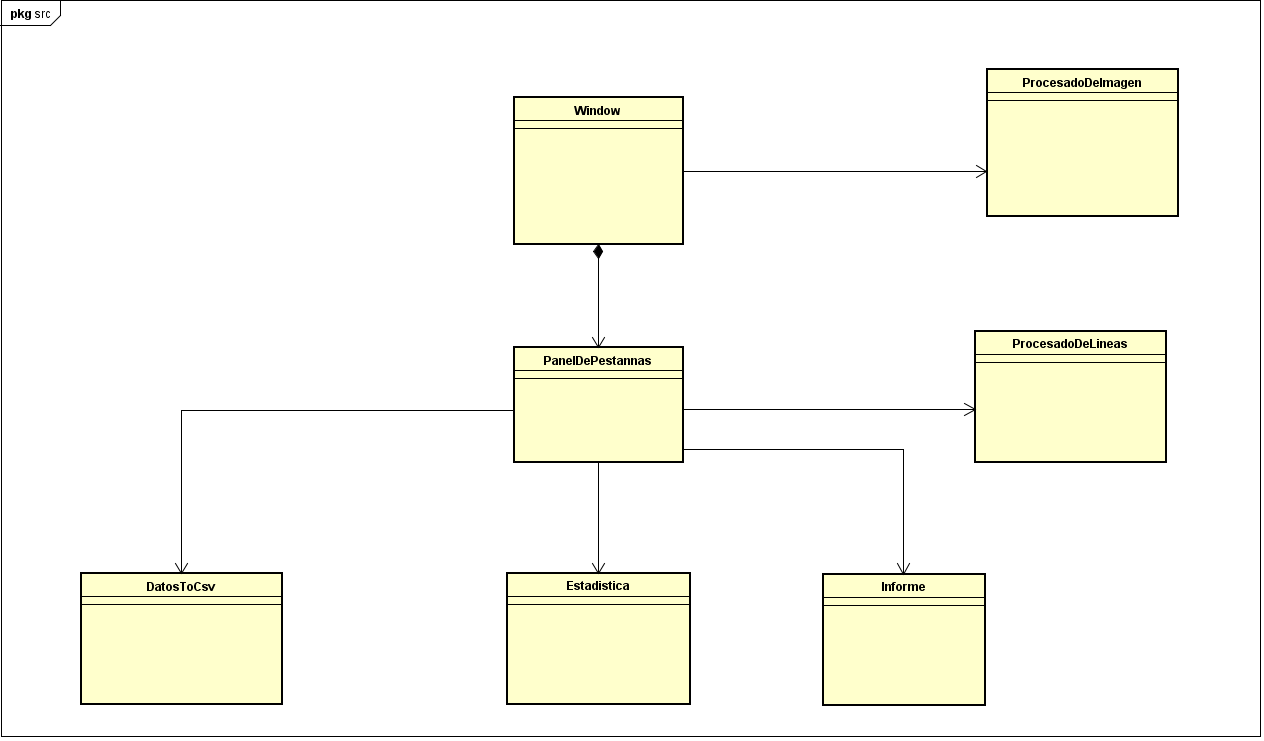
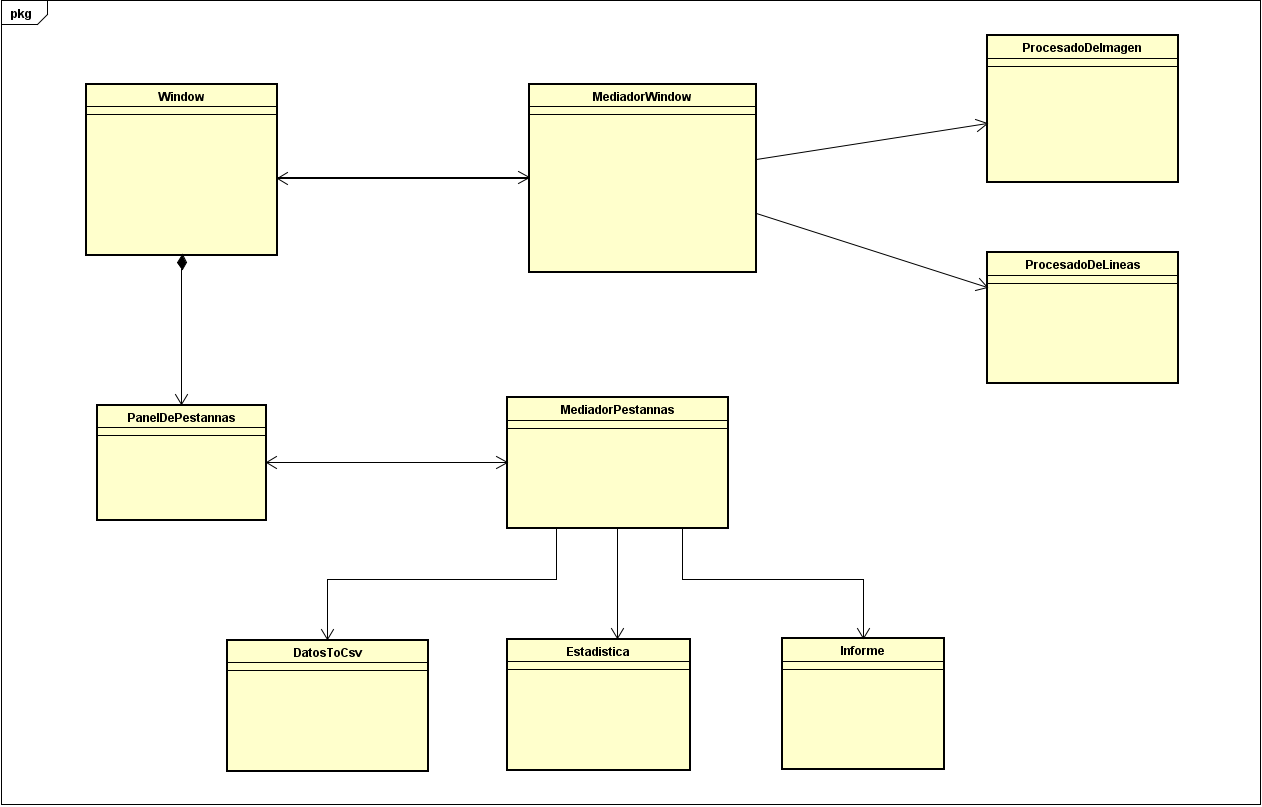
Semana 4: Documentación patrones diseño
Esta tarea se corresponde a la documentación de los patrones de diseño
que hemos aplicado al código y hemos tenido en cuanta aunque alguno ha
sido descartado por que en este lenguaje seria sobredimensionar el
código ya que no reduciría ni la claridad ni las lineas simplemente
añadiría complejidad.

diff --git a/Documentacion/tex/C_Diseno.tex b/Documentacion/tex/C_Diseno.tex
@@ -16,21 +16,26 @@ En este punto vamos a hacer el diseño inicial de las clases de la aplicación y
 En esta parte vamos a hacer una breve descripción del contenido de cada clase y su función.
 
 \begin{itemize}
-\item Window:
+	\item VentanaInicio: 
+Esta clase simplemente hará de fachada entre la ejecución y el acceso a la aplicación real cuando hayamos elegido una imagen que procesar
+	\item Window:
 Esta clase contendrá la ventana principal, menús, el panel de pestañas y la imagen sobre la que dibujar.
-\item PanelDePestannas:
+	\item PanelDePestannas:
 Esta clase contendrá la botonería y la interacción con la imagen a evaluar.
-\item ProcesadoDeImagen:
+	\item MediadorPestannas:
+Esta clase va a ser un mediador para las pestañas para deslocalizar código y complejidad.
+	\item MediadorVentana:
+En esta clase va ser un mediador entre la ventana principal y sus métodos para así reducir complejidad en la clase de ventana.
+	\item ProcesadoDeImagen:
 Esta clase contendrá el tratamiento que tiene que llevar la imagen para la extracción de características a evaluar.
-\item ProcesadoDeLineas:
+	\item ProcesadoDeLineas:
 Esta clase contendrá el procesado de las lineas obtenidas por el procesado de la imagen y el resultado final que obtendremos.
-\item Informe: 
+	\item Informe: 
 Esta clase contendrá la generación del informe (Tabla) de estadísticas en formato LaTex para poder exportar fácilmente a un documento PDF.
-\item DatosToCsv:
+	\item DatosToCsv:
 Esta clase contendrá el paso de los datos que contiene la tabla a un documento en formato csv del que desde Excel podemos extraer fácilmente los datos.
-\item Estadistica: 
-Esta clase contendrá el calculo de los datos estadísticos y la clasificación de las lineas según su orientación.
-
+	\item Estadistica: 
+Esta clase contendrá el cálculo de los datos estadísticos y la clasificación de las lineas según su orientación.
 \end{itemize}
 
 \subsection{Paquetes}
@@ -39,10 +44,14 @@ En este punto vamos a hacer una breve descripción de cada paquete y de su conte
 \begin{itemize}
 \item Gui:
 Este paquete contendrá todos los elementos gráficos de la aplicación y todos lo que se corresponde con interacción con el usuario.
-\item Código: Este paquete contendrá todas las clases de calculo que necesitara la aplicación:
+	\begin{itemize}
+	\item Mediadores:
+	Este paquete va a contener los mediadores de la interfaz para deslocalizar código y complejidad en esta.
+	\end{itemize}
+\item Código: Este paquete contendrá todas las clases de cálculo que necesitara la aplicación:
 	\begin{itemize}
 	\item Estadísticas:
-	Este paquete contendrá las clases del calculo de estadísticas.
+	Este paquete contendrá las clases del cálculo de estadísticas.
 	\item Informes:
 	Este paquete contendrá la generación del informe LaTex
 	\item Procesado:
@@ -59,9 +68,42 @@ Este paquete contendrá todos los elementos gráficos de la aplicación y todos 
 
 
 \section{Diseño de datos}
+\subsection{Introducción}
+\subsection{Patrones de diseño}
+En este apartado vamos a usar de los patrones de diseño que hemos utilizado en nuestra aplicaron.\\
+El patrón más importante y con el que vamos a empezar es el Medidor que consigue hacer que la interfaz este limpia simplemente con las declaraciones de las variables que más adelante va a utilizar.
+La base de los patrones de diseño su libro más significativo es: \cite{Hunt2013}
+\begin{itemize}
+\item \underline{Mediador} \cite{wiki:Mediador}: Se utiliza para encapsulas las interacciones entre los objetos de la interfaz por lo que se clasifica como patrón de comportamiento.
+Como dato curioso, es de los pocos patrones que permiten la bidireccionalidad de comunicación entre las clases, por eso es el patrón idóneo para la interacción de las clases de la interfaz gráfica.
+Aplicando este patrón reducimos la dependencia del código por lo que de esta forma las interfaces no ven lo que tienen por debajo y reduce la complejidad.\\\\
+\textbf{Obtenemos:}
+\begin{itemize}
+\item Conseguir desacoplamiento.
+\item Simplificar y aclarar la comunicación.
+\item Centralizar el control.
+\item Interfaz simple para un sistema complejo.
+\end{itemize}
+
+\item \underline{Comando} \cite{wiki:Comando}: Se utiliza para encapsular el contenido de una función, así ni el emisor de la operación ni el receptor saber que hay por debajo, pero si poder acceder a las funciones que hay.\\\\
+\textbf{Obtenemos:}
+\begin{itemize}
+\item Permitir la parametrización.
+\item Visualizar que ordenes se ejecutan en cada paso.
+\item Construir operaciones complicadas a partir de otras más sencillas.
+\item Permitir saber que habría que hacer para deshacer una operación.
+\end{itemize}
+\item \underline{Fachada} \cite{wiki:Fachada}: Es un patrón de diseño estructural, sirve para reducir la complejidad con la división en clases más pequeñas y reduciendo sus dependencias.\\\\
+\textbf{Obtenemos:}
+\begin{itemize}
+\item Separar en niveles la aplicación.
+\item Reducir su complejidad.
+\item Desacoplar el código.
+\item Interfaz simple para un sistema complejo.
+\item Potable y reutilizable.
+\end{itemize}
+\end{itemize}
 
 \section{Diseño procedimental}
 
 \section{Diseño arquitectónico}
-
-
